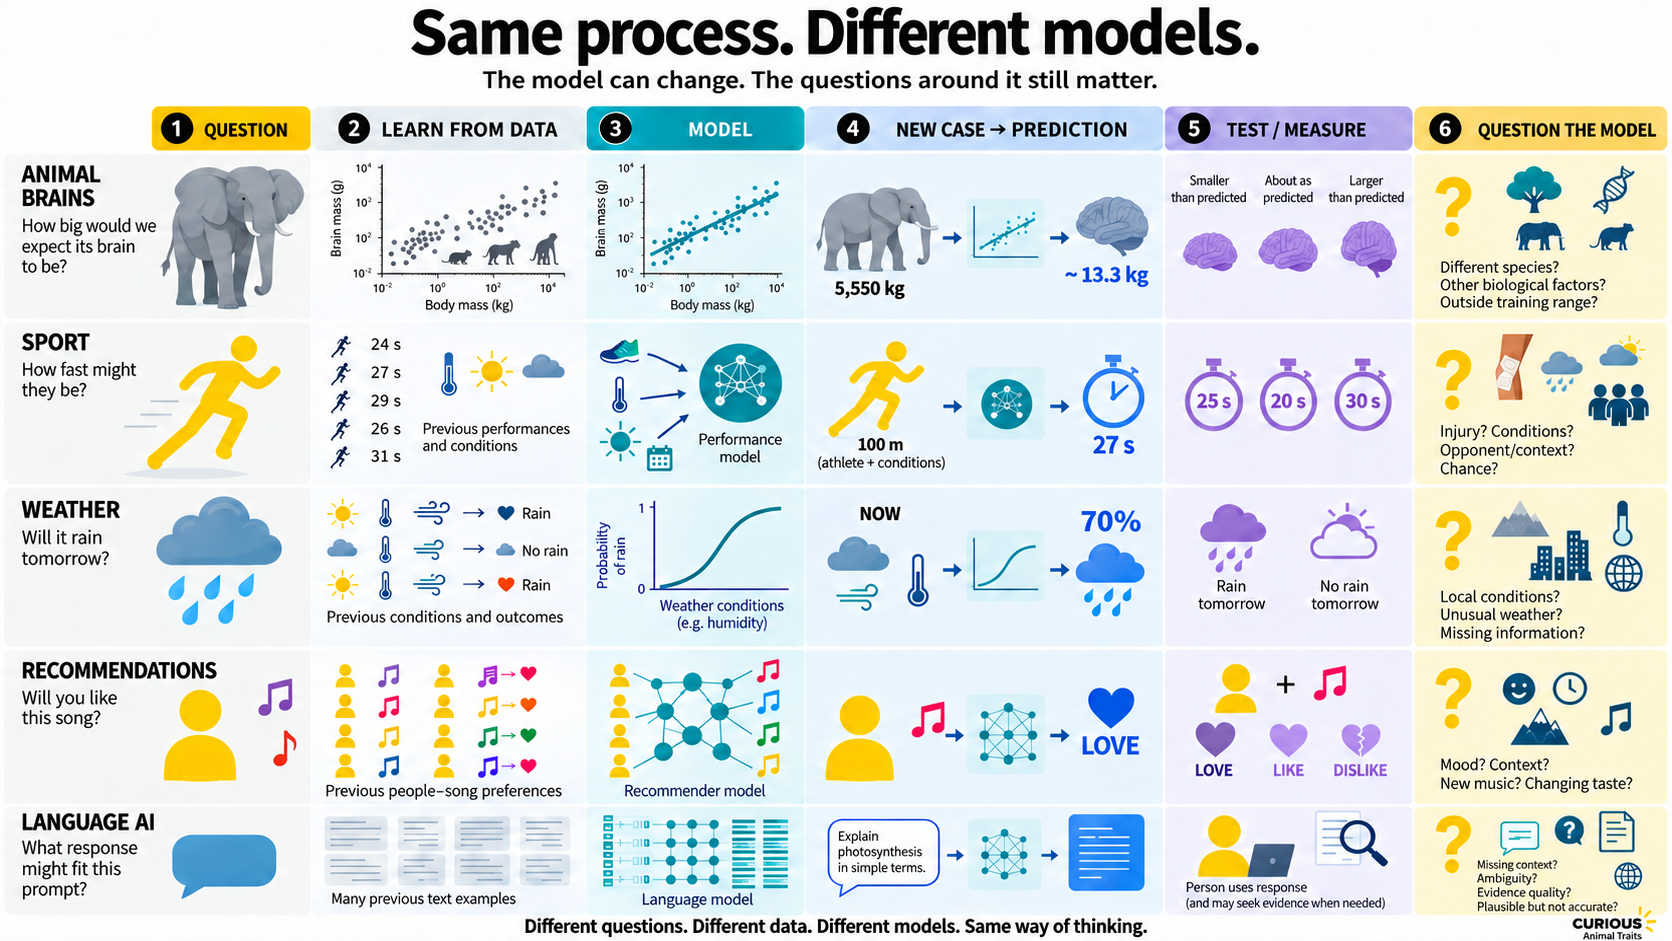
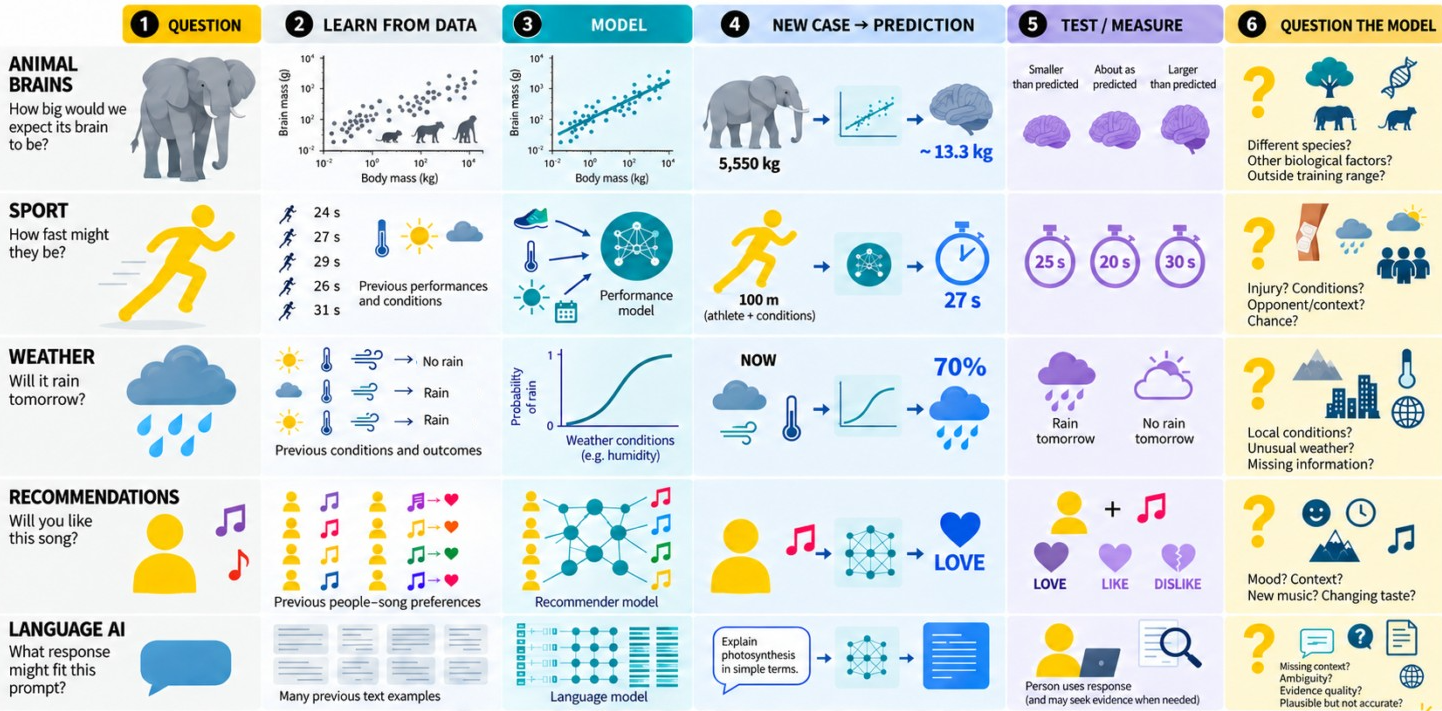
Frame CURIOUS data science ending

diff --git a/animal-traits-streamlit-v1/experiences/curious.py b/animal-traits-streamlit-v1/experiences/curious.py
@@ -1223,7 +1223,11 @@ def render(data: pd.DataFrame, terminal_action) -> None:
             "Learners may supply current examples of recommendation systems or language AI. Avoid implying that different systems use identical models; product and platform examples belong in facilitation, not this durable graphic. Keep returning to: what evidence built the model, what happens with a new case, how well did the prediction work, and what might the model miss?",
             "2–3 min",
         )
+        st.write("This investigation is one example of how data science works across many different questions.")
         st.image(DATA_SCIENCE_INFOGRAPHIC_PATH, width="stretch")
+        st.markdown("**Same process. Different models.**")
+        st.write("The model can change. The questions around it still matter.")
+        st.markdown("**Different questions. Different data. Different models. Same way of thinking.**")
 
 
 
